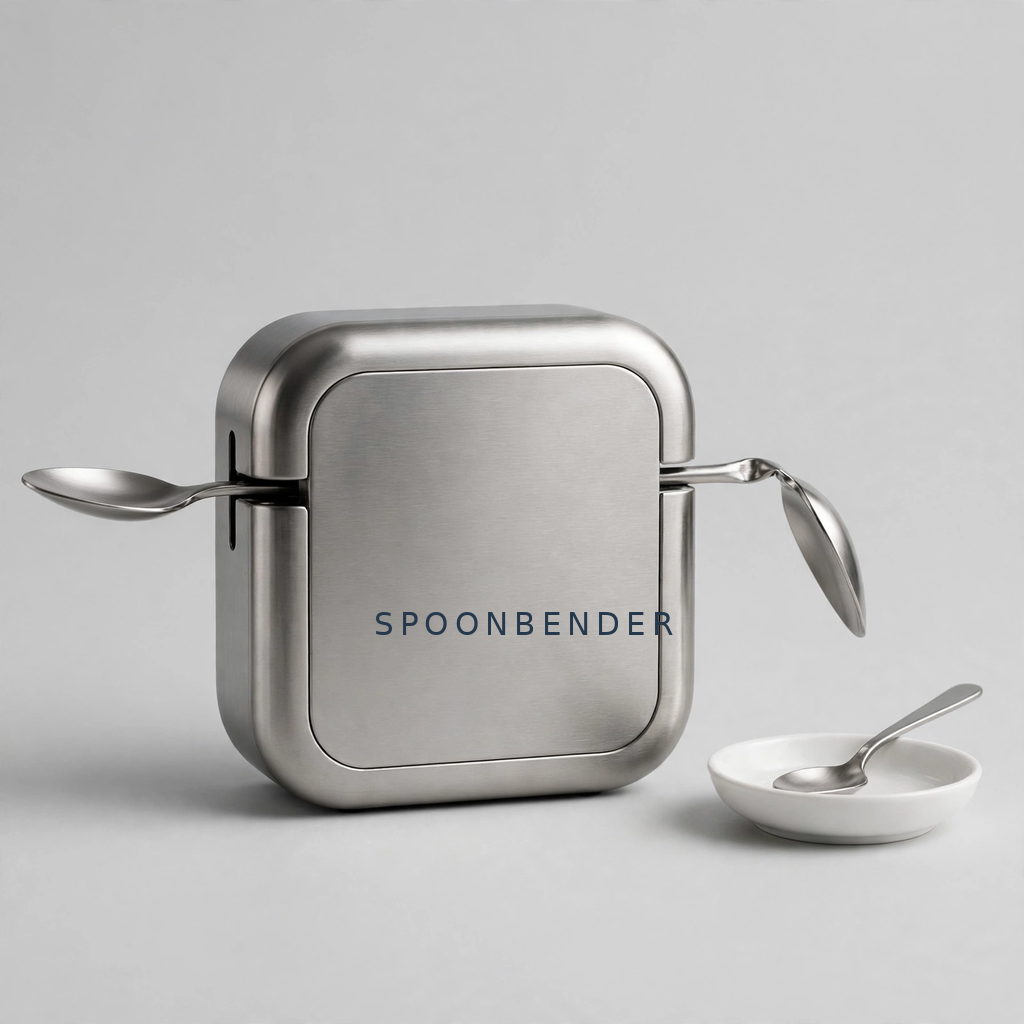
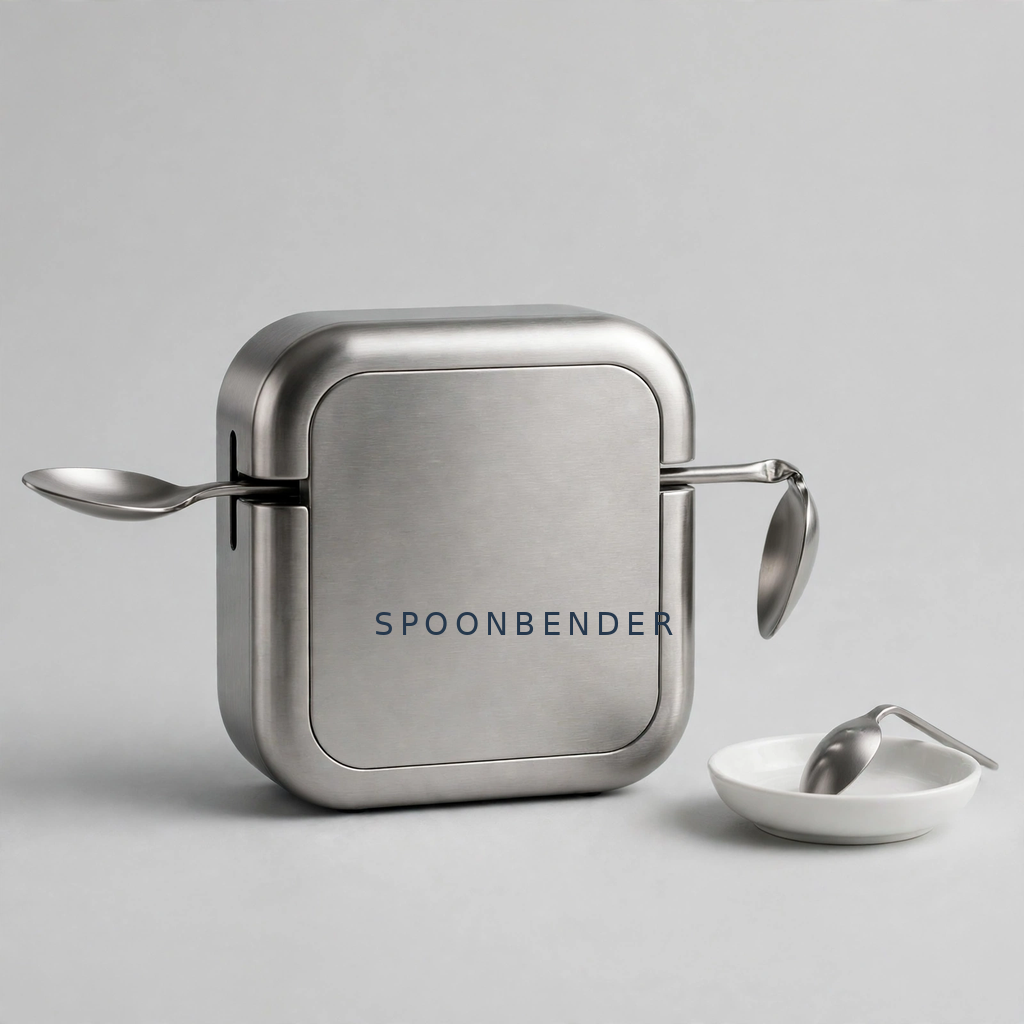
Rebuild entry from v2 base: bent spoon on the dish (finished product)

diff --git a/build-image.py b/build-image.py
@@ -11,7 +11,7 @@ import os
 
 from PIL import Image, ImageDraw, ImageFont
 
-BASE = "media-generation-spoon-bender-base-0-c4c21d7b-4415-472a-9884-e0e80a18ba3b.png"
+BASE = "media-generation-spoon-bender-base-v2-0-019e742d-6169-4d14-87b2-b46abbd8c968.png"
 OUT = "entry.png"
 SIZE = 1024
 BRAND = "SPOONBENDER"
